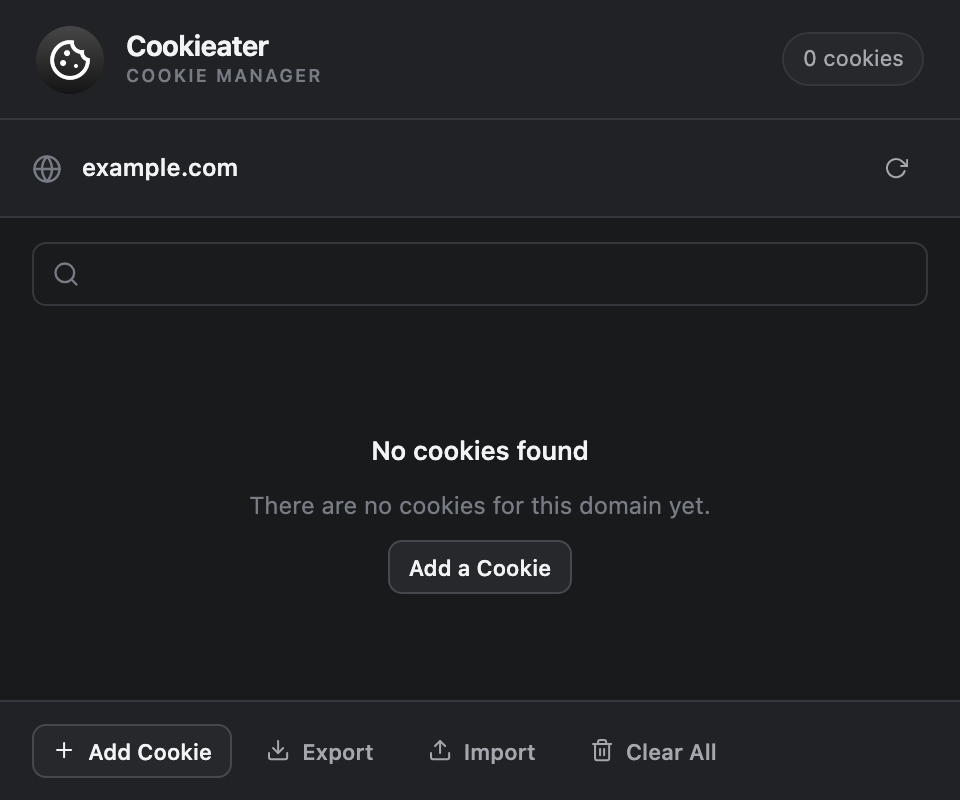
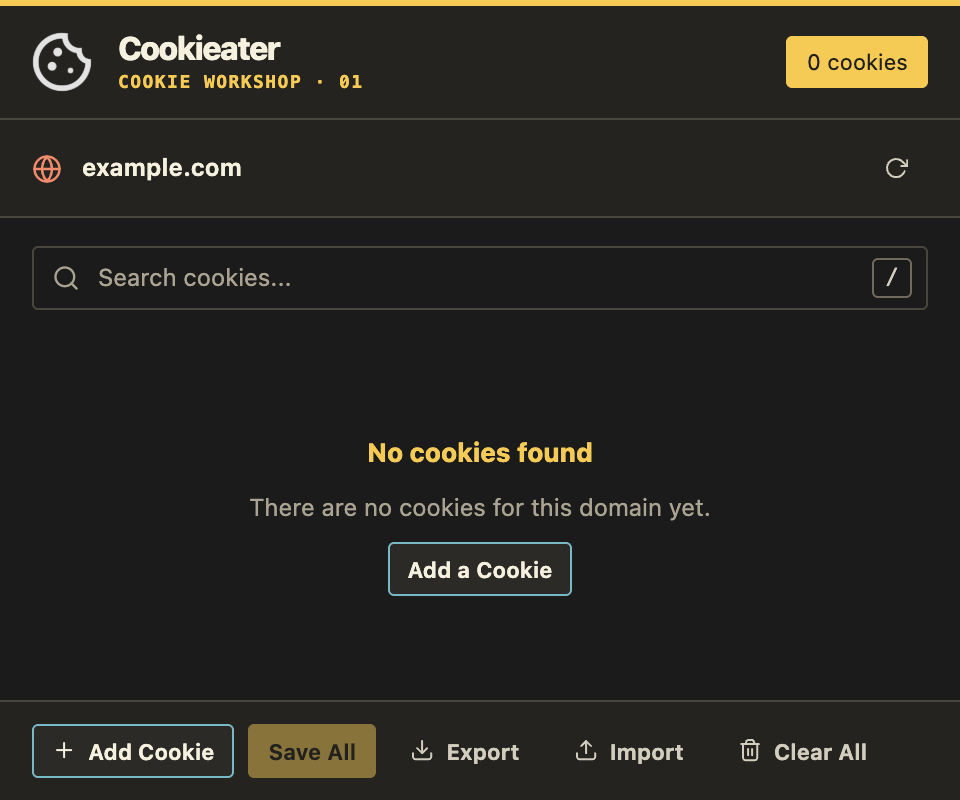
Refresh store listing screenshots and promo image

diff --git a/docs/index.html b/docs/index.html
@@ -59,7 +59,7 @@
         <div class="shot">
           <img
             src="screenshots/overview.png"
-            alt="Cookieater popup showing cookies for example.com and its cookie actions"
+            alt="Cookieater showing five example.com cookies, including a midnight-amber theme and salted-caramel flavor preference"
           />
         </div>
       </div>
@@ -137,7 +137,7 @@ cd cookieater"
             <img
               src="screenshots/search.png"
               loading="lazy"
-              alt="Searching for session cookies and seeing only matching results"
+              alt="Searching for a session cookie and seeing the matching session_id cookie"
             />
           </div>
           <div class="frame">
@@ -158,7 +158,7 @@ cd cookieater"
             <img
               src="screenshots/add-cookie.png"
               loading="lazy"
-              alt="A new cookie draft ready for a name and value"
+              alt="A draft flavor_note cookie with the value cardamom-sugar, ready to save"
             />
           </div>
           <div class="frame">

diff --git a/README.md b/README.md
@@ -4,7 +4,7 @@ A friendly Chrome extension for viewing, searching, and editing cookies on the
 current site. Add, update, import, export, or remove cookies from one compact
 popup.
 
-<img src="docs/screenshots/overview.png" alt="Cookieater showing example.com cookies and the search, add, import, export, and clear actions" width="300">
+<img src="docs/screenshots/overview.png" alt="Cookieater showing five illustrative example.com cookies, including a session, midnight-amber theme, privacy choice, and salted-caramel flavor preference" width="300">
 
 ## Install
 
@@ -41,7 +41,7 @@ unpacked**, and select `.output/chrome-mv3`.
 <p align="center">
   <img src="docs/screenshots/edit.png" alt="An edited cookie with its unsaved changes indicated and the save action ready" height="260">
   <img src="docs/screenshots/cookie-details.png" alt="Expanded session cookie settings showing its domain, path, expiration, SameSite, Secure, HttpOnly, host-only, and session attributes" height="260">
-  <img src="docs/screenshots/add-cookie.png" alt="A new cookie draft ready for its name and value" height="260">
+  <img src="docs/screenshots/add-cookie.png" alt="A draft flavor_note cookie with the value cardamom-sugar, ready to save" height="260">
 </p>
 
 All screenshots use illustrative `example.com` data, not cookies from a real
